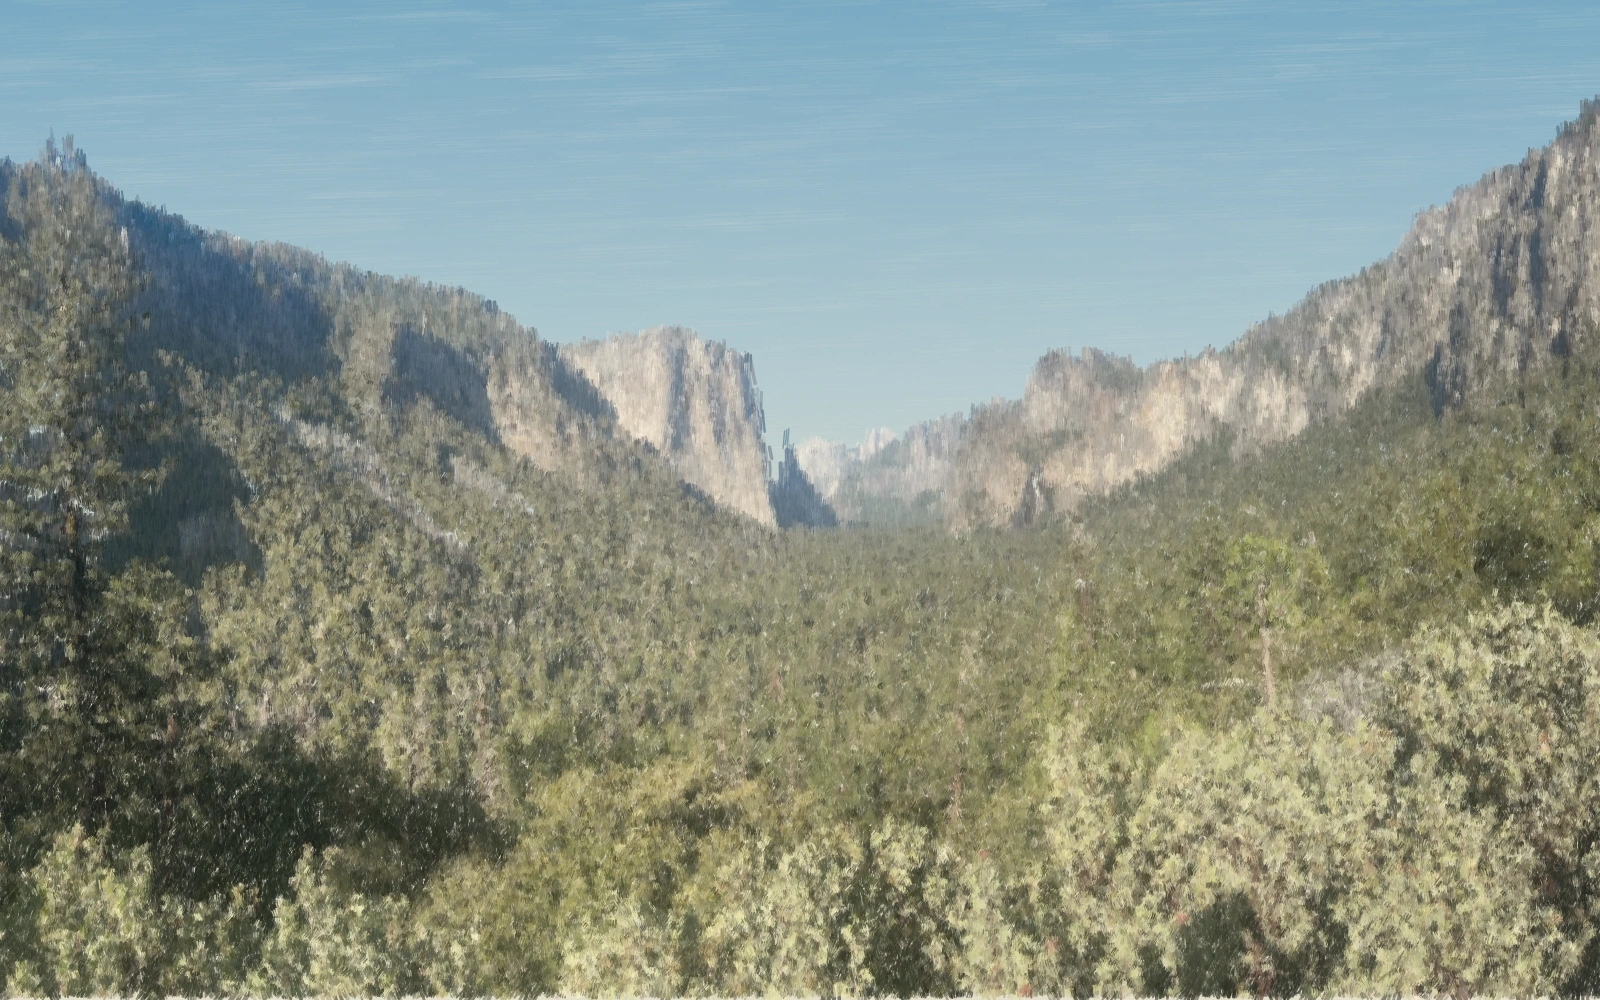
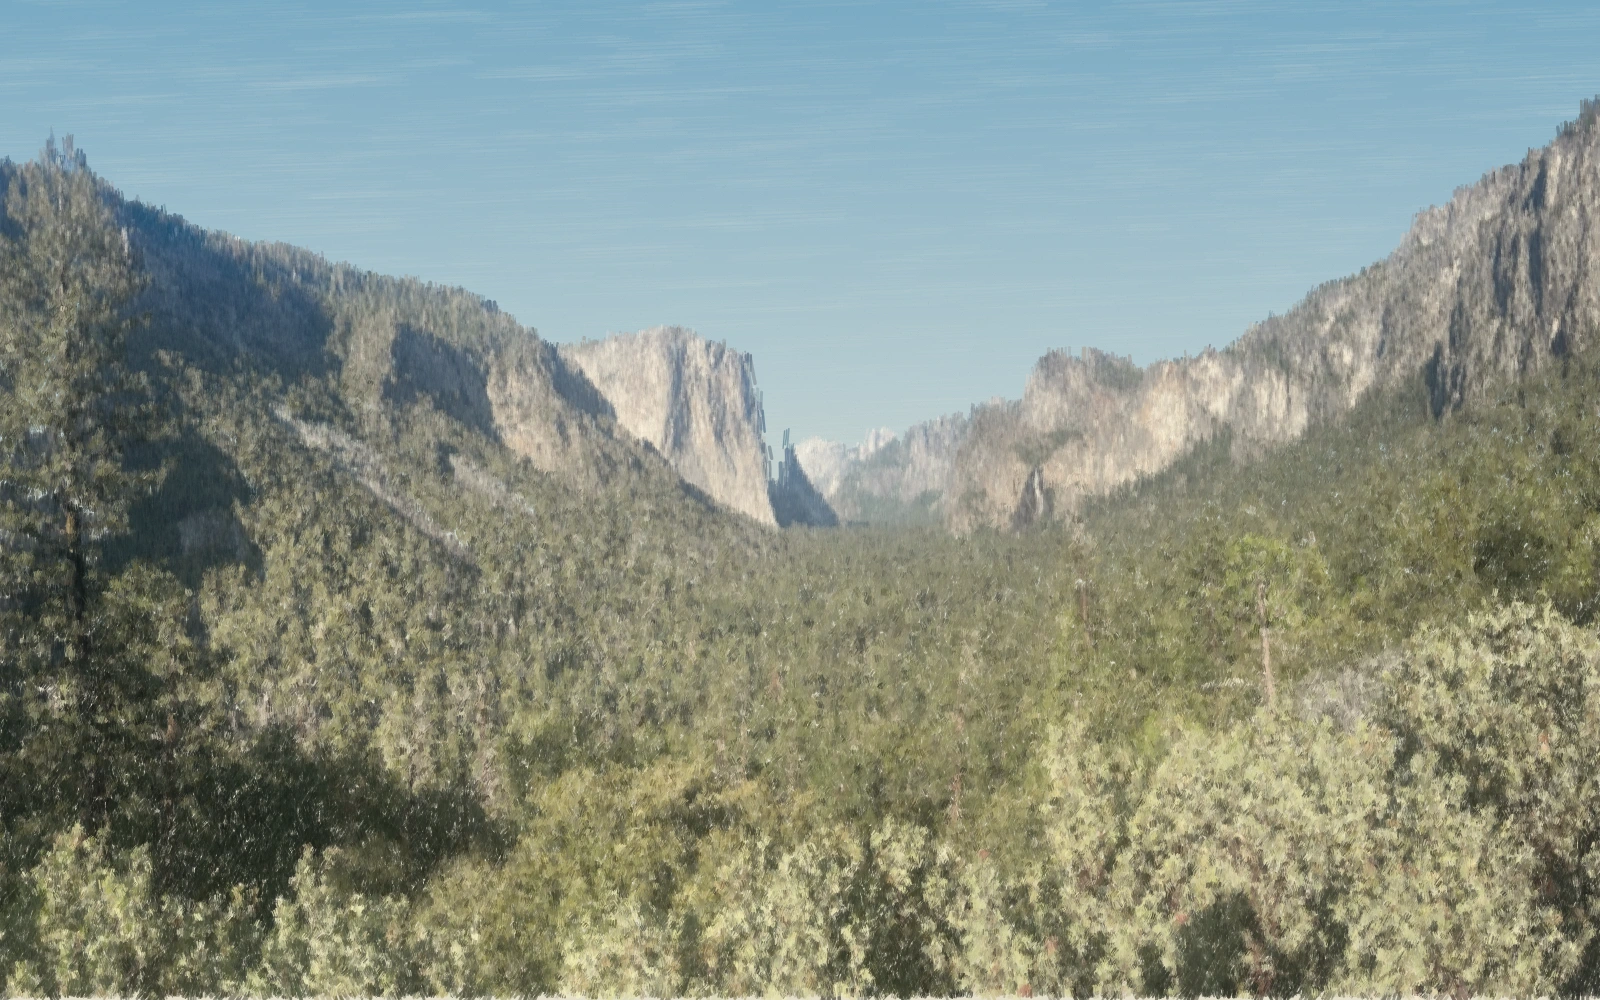
Define granite faces with fine bristle detail and local contrast

Changed region(s): [[0.0312, 0.496, 0.0625, 0.527]]

diff --git a/scene.js b/scene.js
@@ -42,6 +42,22 @@
       stroke(c,x,y,range(30,140),range(2,9),col,-.035,.08,3);
     }
   }
+  function refineCliffs(){
+    // Follow the guide's actual light planes and joints; keep distant rock softer.
+    const luminance=(x,y)=>{
+      const at=(clamp(y,0,H-1)*W+clamp(x,0,W-1))*4;
+      return pixels[at]*.3+pixels[at+1]*.55+pixels[at+2]*.15;
+    };
+    for(let y=130;y<650;y+=2)for(let x=2;x<W-2;x+=2){
+      const col=pigment(x,y);
+      if(col.sky||col.leaf||y<skyline[x]+2)continue;
+      const depth=x>820&&x<1020?.45:1;
+      const local=(luminance(x-4,y)+luminance(x+4,y))*.5;
+      const definition=clamp(((col.l-142)*.16+(col.l-local)*.32)*depth,-15,17);
+      col.r+=definition;col.g+=definition;col.b+=definition*.9;
+      stroke(p,x,y,range(2.5,7),range(.65,1.7),col,1.53+range(-.1,.1),.5,2);
+    }
+  }
   async function buildPainting(){
     seed=4176;sky(p,0);
     // Successive coats follow the real landforms. No source photograph is drawn onto the visible canvas.
@@ -58,7 +74,7 @@
       const x=range(852,925),y=range(425,485),col=pigment(x,y);
       if(!col.sky&&!col.leaf&&col.l>155){col.r+=10;col.g+=8;col.b+=8;stroke(p,x,y,range(2,8),range(.6,1.7),col,1.57,.8,3);}
     }
-    cacheCanopy();ready=true;fit();document.documentElement.dataset.sceneReady='true';
+    refineCliffs();cacheCanopy();ready=true;fit();document.documentElement.dataset.sceneReady='true';
   }
   function fit(){
     const dpr=Math.min(devicePixelRatio||1,2),w=innerWidth,h=document.querySelector('main').clientHeight;
@@ -296,12 +312,12 @@
       skyline[x]=y;
     }
     cacheClouds();cacheWaterfall();
-    const cached=new Image();cached.src='assets/yosemite-painting.webp';
+    const cached=new Image();cached.src='assets/yosemite-painting.webp?v=cliffs-1';
     cached.onload=()=>{p.drawImage(cached,0,0,W,H);cacheCanopy();ready=true;fit();document.documentElement.dataset.sceneReady='true';};
     cached.onerror=()=>buildPainting();
   };
   img.onerror=()=>{
-    const cached=new Image();cached.src='assets/yosemite-painting.webp';
+    const cached=new Image();cached.src='assets/yosemite-painting.webp?v=cliffs-1';
     cached.onload=()=>{p.drawImage(cached,0,0,W,H);cacheCanopy();ready=true;fit();document.documentElement.dataset.sceneReady='true';};
     cached.onerror=()=>{document.documentElement.dataset.sceneReady='error';};
   };
